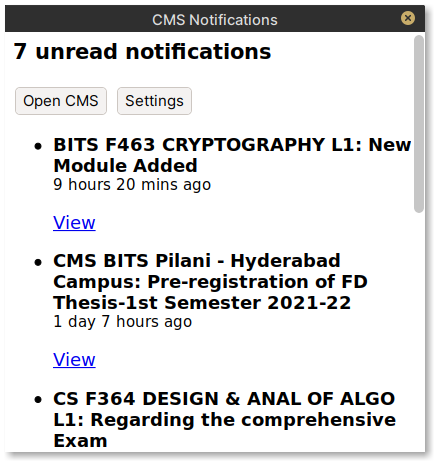
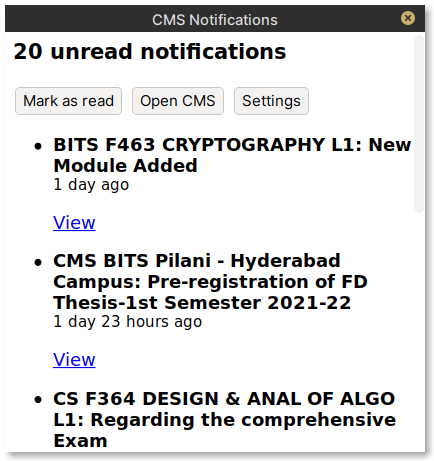
Add documentation.

diff --git a/src/lib.rs b/src/lib.rs
@@ -8,10 +8,9 @@ use web_view::*;
 use webbrowser;
 
 mod api;
-mod gui;
 
-static CONFIG_STORE_LOCATION: &str = ".cms_notifs.json";
-static DEFAULT_MOODLE_LOCATION: &str = "https://cms.bits-hyderabad.ac.in";
+static CONFIG_STORE_LOCATION: &str = ".cms_notifs.json"; // The location where the config is stored.
+static DEFAULT_MOODLE_LOCATION: &str = "https://cms.bits-hyderabad.ac.in"; // The autofilled Moodle endpoint.
 
 /// Application configuration.
 #[derive(Serialize, Deserialize, Debug, Clone)]
@@ -33,13 +32,14 @@ pub struct Notification {
     pub id: u64,
     pub subject: String,
     pub contexturl: String,
+    pub useridto: u32,
     pub timecreatedpretty: String,
 }
 
 impl Config {
     /// Retrieve configuration from JSON file.
     /// If it does not exists, or is corrupted, create a new configuration.
-    fn retrieve() -> Config {
+    pub fn retrieve() -> Config {
         let config_exists = Path::new(&Config::get_config_path()).exists();
         let initial_config = Config::get_initial_config();
         if !config_exists {
@@ -80,7 +80,7 @@ impl Config {
     }
 
     /// Open a webview to ask for config values.
-    fn setup_config(base_config: Option<Config>) -> Config {
+    pub fn setup_config(base_config: Option<Config>) -> Config {
         let config;
         if let Some(got_config) = base_config {
             config = got_config
@@ -104,7 +104,8 @@ impl Config {
         <label>Moodle URL:<br/><input id='mdl-url' value='{}' /></label>
         <br/>
         <label>Authentication token:<br/><input id='mdl-token' value='{}' /></label>
-        <p>You can generate authentication token by visiting CMS > Preferences > User Account > Security Keys.</p>
+        <p>You can generate authentication token by visiting CMS > Preferences > User Account > Security Keys. Use the 'Moodle mobile web service' token.</p>
+
         <br/>
         <button onclick='save()'>Save</button>
         </body>
@@ -138,7 +139,16 @@ impl Config {
 
 /// Open a webview to show the notifications.
 pub fn display_notifications(notifications: Notifications, config: &Config) {
+    if notifications.unreadcount == 0 {
+        println!("0 unread notifications");
+        return;
+    }
+
     let mut notification_list_gen = String::from("");
+    let my_user_id: u32 = match notifications.notifications.get(0) {
+        Some(notif) => notif.useridto,
+        None => 0,
+    };
 
     for notif in notifications.notifications.iter() {
         let curr_notif = format!(
@@ -184,7 +194,8 @@ pub fn display_notifications(notifications: Notifications, config: &Config) {
                     Config::setup_config(Some(config.clone()));
                 }
                 "mark_read" => {
-                    api::mark_all_as_read(config).expect("Fuck");
+                    api::mark_all_as_read(config, my_user_id)
+                        .expect("Could not mark notifications as read");
                 }
                 other => {
                     eprintln!("Unexpected command from webview {}", other);
@@ -234,7 +245,7 @@ pub fn display_errors(config: &Config, err: Box<dyn std::error::Error>) {
 /// Run the application in a loop.
 /// Fetches and displays notifications every 15 minutes.
 pub fn run() -> Result<(), Box<dyn std::error::Error>> {
-    let duration = std::time::Duration::from_secs(60 * 15); // 15 minutes
+    let duration = std::time::Duration::from_secs(60 * 10); // 15 minutes
 
     loop {
         let config = Config::retrieve();

diff --git a/src/api.rs b/src/api.rs
@@ -5,8 +5,10 @@ use std::error::Error;
 
 static NOTIFS_PARTIAL_ENDPOINT: &str = "/webservice/rest/server.php?wsfunction=message_popup_get_popup_notifications&moodlewsrestformat=json&wstoken=@&limit=100&offset=0&useridto=0";
 
-static MARK_READ_PARTIAL_ENDPOINT: &str = "/webservice/rest/server.php?wsfunction=core_message_mark_all_notifications_as_read&moodlewsrestformat=json&wstoken=@&useridto=0&timecreatedto=0";
+static MARK_READ_PARTIAL_ENDPOINT: &str = "/webservice/rest/server.php?wsfunction=core_message_mark_all_notifications_as_read&moodlewsrestformat=json&wstoken=@";
 
+/// Inject auth token into a partial endpoint.
+/// The first '@' character is relaced with the token.
 fn tokenize<'a>(endpoint: &'a str, config: &'a Config) -> String {
     let tokenized_partial_endpoint = endpoint.replace("@", &config.token);
     let complete_endpoint = format!("{}{}", config.moodle_location, tokenized_partial_endpoint);
@@ -27,11 +29,17 @@ pub fn get_notifications(config: &Config) -> Result<Notifications, Box<dyn Error
 }
 
 /// Mark all notifications are read.
-pub fn mark_all_as_read(config: &Config) -> Result<String, Box<dyn Error>> {
-    let endpoint = tokenize(MARK_READ_PARTIAL_ENDPOINT, config);
+pub fn mark_all_as_read(config: &Config, my_user_id: u32) -> Result<String, Box<dyn Error>> {
+    let mut endpoint = tokenize(MARK_READ_PARTIAL_ENDPOINT, config);
+    let id_param = format!("&useridto={}", my_user_id);
+    endpoint.push_str(&id_param);
     let res = reqwest::blocking::get(endpoint)?
         .text()
         .or_else(|err| Err(Box::new(err) as Box<dyn std::error::Error>));
+
+    if let Ok(text) = &res {
+        println!("Mark as read: {}", text);
+    };
 
     res
 }

diff --git a/src/main.rs b/src/main.rs
@@ -1,5 +1,18 @@
+//! Read your latest unread notifications from Moodle.
+
 use cms_notifs::run;
+use cms_notifs::Config;
+use std::env;
 
 fn main() -> Result<(), Box<dyn std::error::Error>> {
+    let args: Vec<String> = env::args().collect();
+
+    if args.len() == 2 && args[1] == "--settings" {
+        Config::setup_config(Some(Config::retrieve()));
+        std::process::exit(0);
+    } else {
+        println!("Note: You can run with --settings argument to open the settings dialog.");
+    }
+
     run()
 }

diff --git a/readme.md b/readme.md
@@ -1,6 +1,7 @@
 # Moodle CMS Notifications
 
 * View unread Moodle CMS notifications. 
+* Mark all notifications as read.
 * Lightweight with no dependencies.
 * Cross platform.
 * Authentication using tokens, so should be secure.
@@ -17,6 +18,10 @@
 * Run the downloaded executable. ( ` ./path/to/downloaded/file` )
 * Fill in the required config details asked.
 * It will run in the background.
+
+Launch with `--settings` command line argument to open the settings dialog.
+
+![Settings](images/settings.png)
 
 ## Compile from source
 
